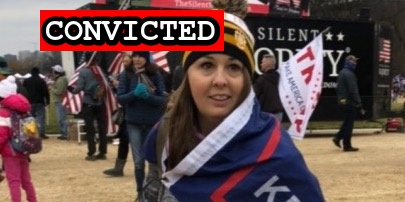
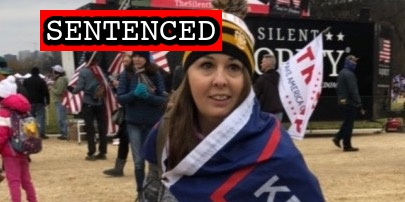
Latest sentencing

Changed region(s): [[0.0889, 0.0297, 0.563, 0.2673]]

diff --git a/docs/_suspects/nicholas-languerand.md b/docs/_suspects/nicholas-languerand.md
@@ -4,16 +4,16 @@ lastName: Languerand
 hashtag: TossyMcTosser
 aka:
 residence: South Carolina
-status: Convicted
+status: Sentenced
 date: 2021-04-15
 charged: 2021-04-15
 indicted: 2021-05-12
 convicted: 2021-11-03
-sentenced:
+sentenced: 2022-01-26
 dismissed:
 deceased:
 plea_hearing: 2021-11-03
-sentencing:
+sentencing: 2022-01-26
 age: 26
 occupation:
 affiliations:
@@ -39,6 +39,8 @@ charges:
     url: https://www.law.cornell.edu/uscode/text/18/111
     felony: true
 sentence:
+  - 44 months in prison
+  - $500 restitution
 ---
 
 - [News Report](https://www.wyff4.com/article/instagram-post-leads-to-little-river-mans-arrest-for-alleged-role-in-deadly-capitol-riots-horry-county/36136043)

diff --git a/docs/_suspects/zachary-wilson.md b/docs/_suspects/zachary-wilson.md
@@ -4,12 +4,12 @@ lastName: Wilson
 hashtag: ZacharyWilson
 aka:
 residence: Missouri
-status: Convicted
+status: Sentenced
 date: 2021-02-12
 charged: 2021-02-12
 indicted:
 convicted: 2021-09-27
-sentenced:
+sentenced: 2022-01-27
 dismissed:
 deceased:
 plea_hearing: 2021-09-27
@@ -39,6 +39,9 @@ charges:
     url: https://www.law.cornell.edu/uscode/text/40/5104
     felony: false
 sentence:
+  - 45 days home detention
+  - 24 months probation
+  - $500 restitution
 ---
 
 - [News Report](https://www.komu.com/news/state/two-missouri-men-arrested-for-alleged-involvement-in-capitol-riots/article_d19e425a-72fc-11eb-a3bc-5f2e15451854.html)

diff --git a/docs/_suspects/kelsey-wilson.md b/docs/_suspects/kelsey-wilson.md
@@ -4,12 +4,12 @@ lastName: Wilson
 hashtag: KelseyWilson
 aka:
 residence: Missouri
-status: Convicted
+status: Sentenced
 date: 2021-08-02
 charged: 2021-08-02
 indicted:
 convicted: 2021-09-27
-sentenced:
+sentenced: 2022-01-27
 dismissed:
 deceased:
 plea_hearing: 2021-09-27
@@ -39,6 +39,9 @@ charges:
     url: https://www.law.cornell.edu/uscode/text/40/5104
     felony: false
 sentence:
+  - 30 days home detention
+  - 24 months probation
+  - $500 restitution
 ---
 
 - [News Report](https://www.ky3.com/2021/08/19/springfield-woman-charged-us-capitol-riot/)
